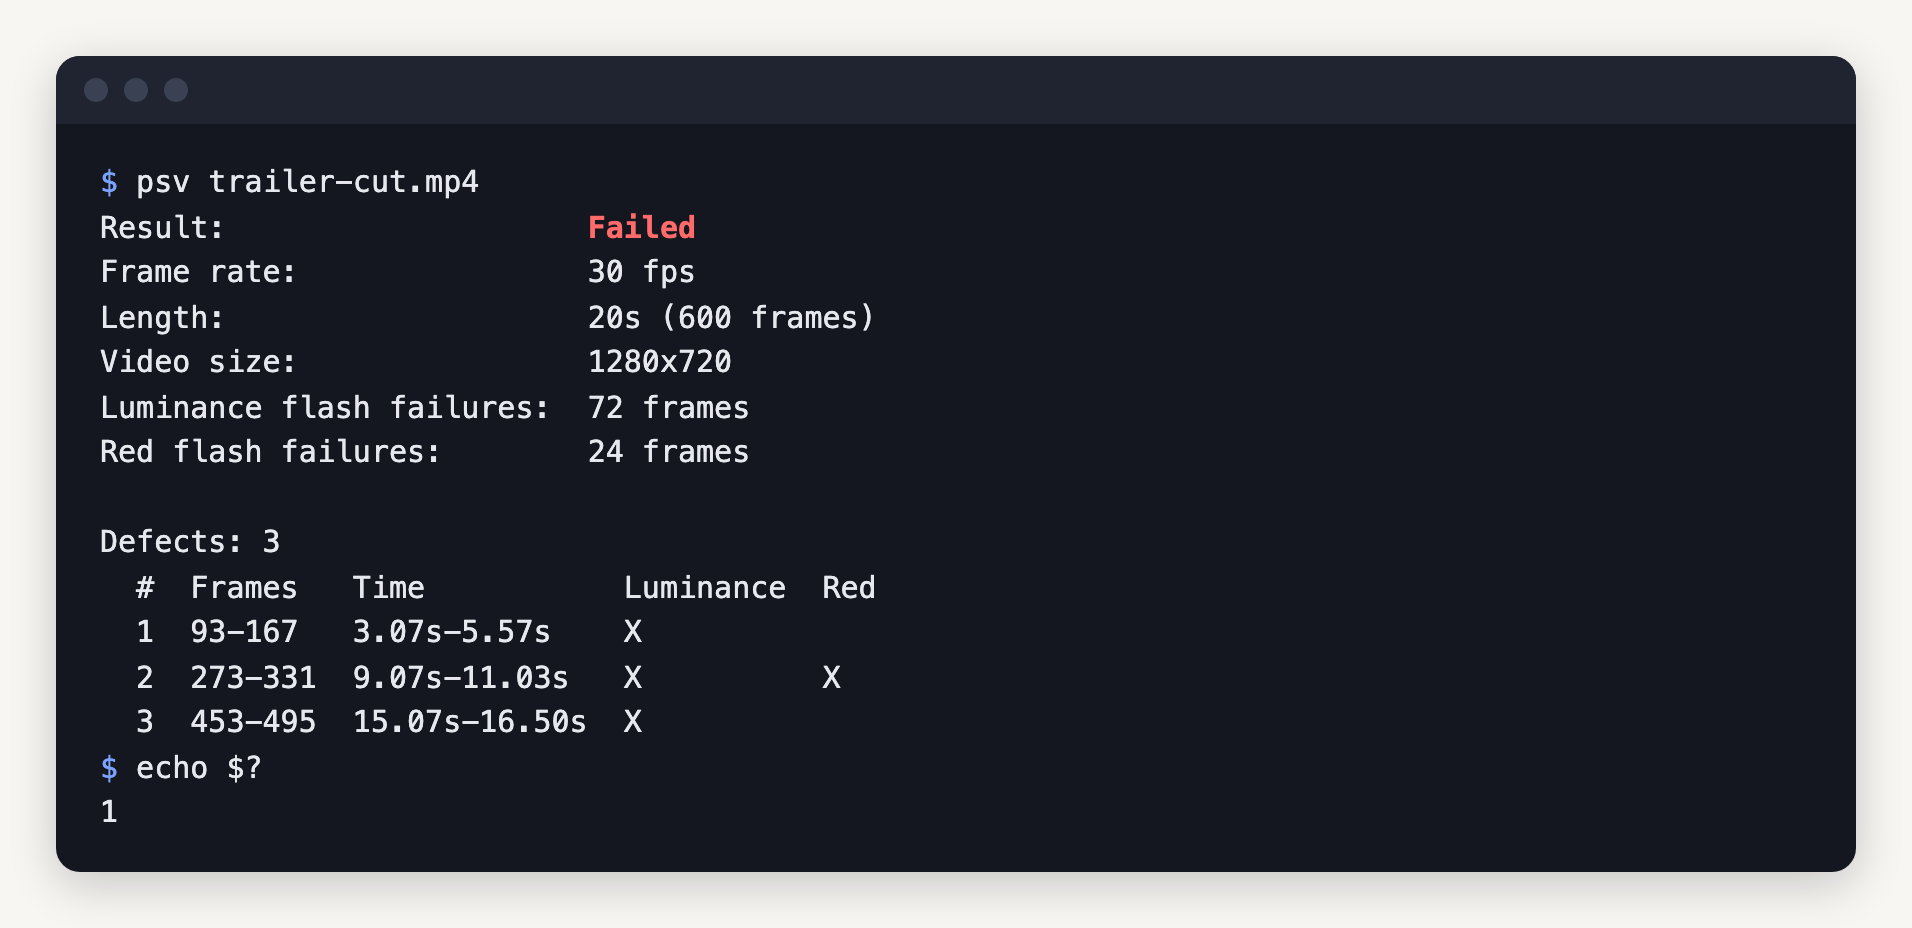
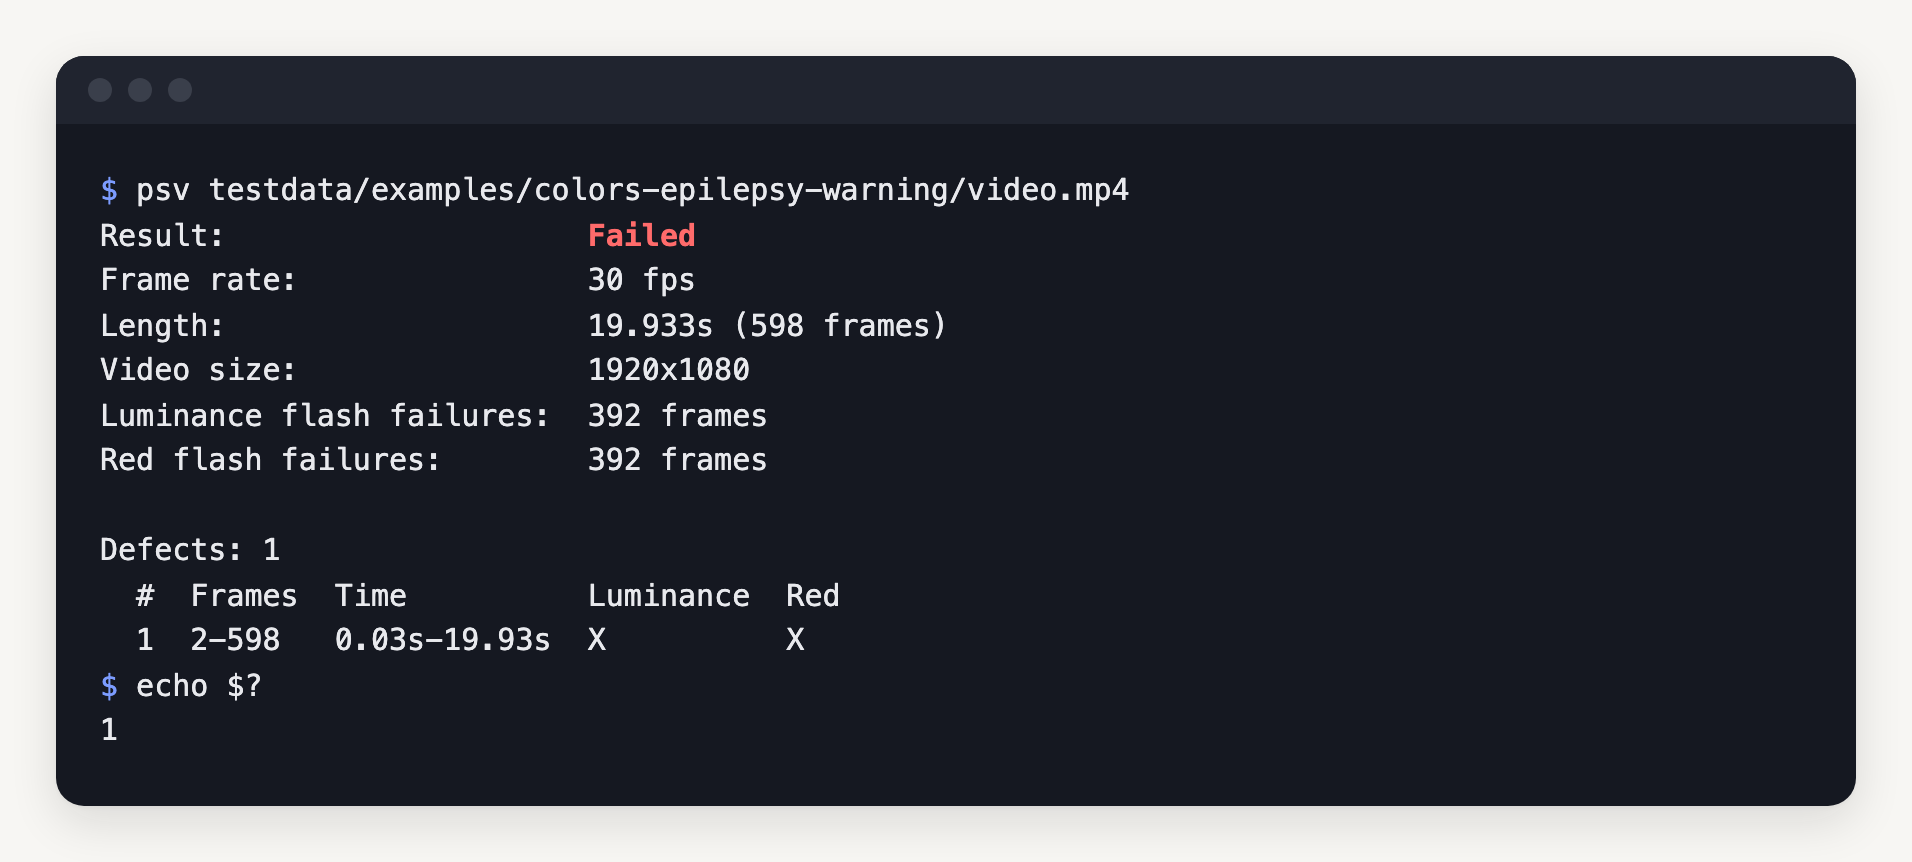
docs: use real output from an example video in the README
Every example value now comes from one run of a make build binary built
from main (9c1fefd) on testdata/examples/colors-epilepsy-warning:

- the Usage text output and the cli.png terminal capture
- the full -format json report
- the API stream from psv serve: the real received and progress
  events, the event count and the start of the report

Previously these mixed a clip that is not in the repository, a file
name that never existed (trailer-cut.mp4) and an illustrative version.

diff --git a/README.md b/README.md
@@ -41,8 +41,8 @@
 </p>
 
 <p align="center">
-  <img src="docs/images/cli.png" alt="Terminal running psv on the same test clip: result Failed, 600 frames at 30 fps, three defects with their frames, times and flash types, and exit status 1" width="80%">
-  <br><sub><b>Command line</b>: a generated test clip through <code>psv</code>, with exit status 1 for a failed video.</sub>
+  <img src="docs/images/cli.png" alt="Terminal running psv on testdata/examples/colors-epilepsy-warning/video.mp4: result Failed, 598 frames at 30 fps, 1920x1080, 392 luminance and 392 red failing frames, one defect over frames 2-598, and exit status 1" width="80%">
+  <br><sub><b>Command line</b>: one of the repository's example videos through <code>psv</code>, with exit status 1 for a failed video.</sub>
 </p>
 
 > [!NOTE]
@@ -85,25 +85,23 @@ Requirements:
 ## Usage
 
 ```bash
-./bin/psv video.mp4
+./bin/psv testdata/examples/colors-epilepsy-warning/video.mp4
 ```
 
 ```text
 Result:                    Failed
 Frame rate:                30 fps
-Length:                    20s (600 frames)
-Video size:                1280x720
-Luminance flash failures:  72 frames
-Red flash failures:        24 frames
+Length:                    19.933s (598 frames)
+Video size:                1920x1080
+Luminance flash failures:  392 frames
+Red flash failures:        392 frames
 
-Defects: 3
-  #  Frames   Time           Luminance  Red
-  1  93-167   3.07s-5.57s    X
-  2  273-331  9.07s-11.03s   X          X
-  3  453-495  15.07s-16.50s  X
+Defects: 1
+  #  Frames  Time          Luminance  Red
+  1  2-598   0.03s-19.93s  X          X
 ```
 
-A defect is a run of frames covered by failing flash sequences, from the first transition of a sequence to the frame that completes it.
+The video is one of the [example videos](testdata/examples): every frame is solid green, red or blue in turn, one colour per frame. A defect is a run of frames covered by failing flash sequences, from the first transition of a sequence to the frame that completes it.
 
 ### Flags
 
@@ -140,21 +138,24 @@ Threshold flags override single values of the chosen preset.
 
 ## JSON report
 
-`-format json` prints the full report in the `psv.report/v1` format, which the API returns too:
+`-format json` prints the full report in the `psv.report/v1` format, which the API returns too. For the same video:
 
 ```json
 {
   "schema": "psv.report/v1",
-  "tool": { "name": "psv", "version": "9c1fefd" },
+  "tool": {
+    "name": "psv",
+    "version": "9c1fefd"
+  },
   "source": "video.mp4",
   "standard": "wcag22",
   "verdict": "Failed",
   "passed": false,
   "frameRate": 30,
-  "frames": 600,
-  "durationSeconds": 20,
-  "width": 1280,
-  "height": 720,
+  "frames": 598,
+  "durationSeconds": 19.933333333,
+  "width": 1920,
+  "height": 1080,
   "thresholds": {
     "luminanceChange": 0.1,
     "darkLimit": 0.8,
@@ -165,16 +166,19 @@ Threshold flags override single values of the chosen preset.
     "areaPercent": 25,
     "maxTransitions": 6
   },
-  "failures": { "luminance": 72, "red": 24 },
+  "failures": {
+    "luminance": 392,
+    "red": 392
+  },
   "defects": [
     {
-      "firstFrame": 93,
-      "lastFrame": 167,
+      "firstFrame": 2,
+      "lastFrame": 598,
       "luminance": true,
-      "red": false,
+      "red": true,
       "index": 1,
-      "startSeconds": 3.066666666,
-      "endSeconds": 5.566666666
+      "startSeconds": 0.033333333,
+      "endSeconds": 19.933333333
     }
   ]
 }
@@ -184,7 +188,7 @@ With `-frames`, `results` adds one entry per frame. Each entry has `luminance` a
 
 Failing frames also locate what flashes, wherever it is in the frame: `flashing` is the bounding box, in source pixels, of the flashing pixels that start a transition in that frame, and `mask` (base64) gives their share, 0 to 100, of each cell of a 64×36 grid over the frame, row by row from the top left. Unlike `region`, which is the fixed-size area the threshold is measured in, these follow the shape of the flashing.
 
-`tool.version` is the build's version: the `git describe` output for `make build`, or `dev`. `standard` is the preset name, or `custom` when threshold flags change it. `psv render` and the report UI accept only `psv.report/v1` documents.
+`tool.version` is the version of the build that made the report: `make build` stamps the `git describe` output (here the commit `9c1fefd`, as no release is tagged), and a plain `go build` reports `dev`. `standard` is the preset name, or `custom` when threshold flags change it. `psv render` and the report UI accept only `psv.report/v1` documents.
 
 ## Report UI
 
@@ -225,21 +229,24 @@ The page needs the per-frame results that `-frames` adds. To see the frames them
 
 | Endpoint | Description |
 | --- | --- |
-| `POST /v1/analyses?standard=wcag22&name=clip.mp4` | The video is the request body; the response is newline-delimited JSON events |
+| `POST /v1/analyses?standard=wcag22&name=video.mp4` | The video is the request body; the response is newline-delimited JSON events |
 | `GET /healthz` | `{"status":"ok"}` |
 | `GET /` | The report UI |
 
 ```sh
-curl -sN --data-binary @clip.mp4 'http://127.0.0.1:8080/v1/analyses?name=clip.mp4'
+curl -sN --data-binary @testdata/examples/colors-epilepsy-warning/video.mp4 'http://127.0.0.1:8080/v1/analyses?name=video.mp4'
 ```
 
 ```text
 {"type":"received","bytes":45713}
-{"type":"progress","frame":120,"total":598}
-{"type":"report","report":{"schema":"psv.report/v1", ...}}
+{"type":"progress","frame":1,"total":598}
+{"type":"progress","frame":8,"total":598}
+…
+{"type":"progress","frame":598,"total":598}
+{"type":"report","report":{"schema":"psv.report/v1","tool":{"name":"psv","version":"9c1fefd"},…
 ```
 
-`received` comes once the upload is stored, `progress` while frames are analysed (without `total` when the container does not declare a frame count), and the stream ends with `report` or `error`.
+That run sent 146 lines: `received` once the upload is stored, 144 `progress` events while frames are analysed, sent at most every 100 ms and for the last frame (without `total` when the container does not declare a frame count), and the `report`, shortened here; a failed analysis ends with `error` instead.
 
 The report has per-frame results, so it can be saved and passed to `psv render`. Problems found before the analysis starts are answered with an error status and a JSON `{"error": ...}` body: `400` for an unknown standard or an empty body, `413` past the upload limit, `422` for a file FFmpeg cannot read and `429` when `-max-jobs` analyses are already running. A failure after that ends the stream with a `{"type":"error","error":...}` event. Closing the connection cancels the analysis.
 
